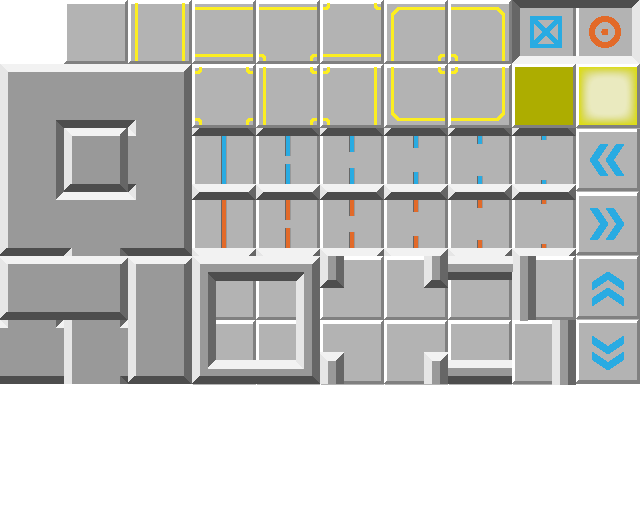
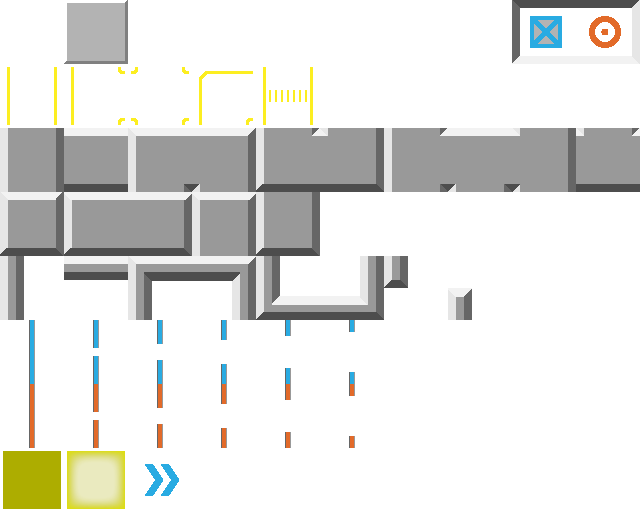
new tile-sprite-system with two sprites pr. tile, base (floor) and overlay (with rotation)
requires SpriteContainer that requires webgl-0.8.2.min.js
Wider door-design
fix level-design to accomodate wider doors

diff --git a/js/webgl-0.8.2.min.js b/js/webgl-0.8.2.min.js
@@ -1,0 +1,12 @@
+/*!
+* @license EaselJS
+* Visit http://createjs.com/ for documentation, updates and examples.
+*
+* Copyright (c) 2011-2015 gskinner.com, inc.
+*
+* Distributed under the terms of the MIT license.
+* http://www.opensource.org/licenses/mit-license.html
+*
+* This notice shall be included in all copies or substantial portions of the Software.
+*/
+this.createjs=this.createjs||{},function(){"use strict";function a(a){this.Container_constructor(),this.spriteSheet=a}var b=createjs.extend(a,createjs.Container);b.addChild=function(a){return null==a?a:arguments.length>1?this.addChildAt.apply(this,Array.prototype.slice.call(arguments).concat([this.children.length])):this.addChildAt(a,this.children.length)},b.addChildAt=function(a,b){var c=arguments.length,d=arguments[c-1];if(0>d||d>this.children.length)return arguments[c-2];if(c>2){for(var e=0;c-1>e;e++)this.addChildAt(arguments[e],d+e);return arguments[c-2]}if(!(a._spritestage_compatibility>=1))return console&&console.log("Error: You can only add children of type SpriteContainer, Sprite, BitmapText, or DOMElement ["+a.toString()+"]"),a;if(a._spritestage_compatibility<=4){var f=a.spriteSheet;if(!f||!f._images||f._images.length>1||this.spriteSheet&&this.spriteSheet!==f)return console&&console.log("Error: A child's spriteSheet must be equal to its parent spriteSheet and only use one image. ["+a.toString()+"]"),a;this.spriteSheet=f}return a.parent&&a.parent.removeChild(a),a.parent=this,this.children.splice(b,0,a),a},b.toString=function(){return"[SpriteContainer (name="+this.name+")]"},createjs.SpriteContainer=createjs.promote(a,"Container")}(),this.createjs=this.createjs||{},function(){"use strict";function a(a,b,c){this.Stage_constructor(a),this._preserveDrawingBuffer=b||!1,this._antialias=c||!1,this._viewportWidth=0,this._viewportHeight=0,this._projectionMatrix=null,this._webGLContext=null,this._webGLErrorDetected=!1,this._clearColor=null,this._maxTexturesPerDraw=1,this._maxBoxesPointsPerDraw=null,this._maxBoxesPerDraw=null,this._maxIndicesPerDraw=null,this._shaderProgram=null,this._vertices=null,this._verticesBuffer=null,this._indices=null,this._indicesBuffer=null,this._currentBoxIndex=-1,this._drawTexture=null,this._initializeWebGL()}[createjs.SpriteContainer,createjs.Sprite,createjs.BitmapText,createjs.Bitmap,createjs.DOMElement].forEach(function(a,b){a.prototype._spritestage_compatibility=b+1});var b=createjs.extend(a,createjs.Stage);a.NUM_VERTEX_PROPERTIES=5,a.POINTS_PER_BOX=4,a.NUM_VERTEX_PROPERTIES_PER_BOX=a.POINTS_PER_BOX*a.NUM_VERTEX_PROPERTIES,a.INDICES_PER_BOX=6,a.MAX_INDEX_SIZE=Math.pow(2,16),a.MAX_BOXES_POINTS_INCREMENT=a.MAX_INDEX_SIZE/4,b._get_isWebGL=function(){return!!this._webGLContext};try{Object.defineProperties(b,{isWebGL:{get:b._get_isWebGL}})}catch(c){}b.addChild=function(a){return null==a?a:arguments.length>1?this.addChildAt.apply(this,Array.prototype.slice.call(arguments).concat([this.children.length])):this.addChildAt(a,this.children.length)},b.addChildAt=function(a,b){var c=arguments.length,d=arguments[c-1];if(0>d||d>this.children.length)return arguments[c-2];if(c>2){for(var e=0;c-1>e;e++)this.addChildAt(arguments[e],d+e);return arguments[c-2]}return a._spritestage_compatibility>=1?!a.image&&!a.spriteSheet&&a._spritestage_compatibility<=4?(console&&console.log("Error: You can only add children that have an image or spriteSheet defined on them. ["+a.toString()+"]"),a):(a.parent&&a.parent.removeChild(a),a.parent=this,this.children.splice(b,0,a),a):(console&&console.log("Error: You can only add children of type SpriteContainer, Sprite, Bitmap, BitmapText, or DOMElement. ["+a.toString()+"]"),a)},b.update=function(a){if(this.canvas){this.tickOnUpdate&&this.tick(a),this.dispatchEvent("drawstart"),this.autoClear&&this.clear();var b=this._setWebGLContext();b?this.draw(b,!1):(b=this.canvas.getContext("2d"),b.save(),this.updateContext(b),this.draw(b,!1),b.restore()),this.dispatchEvent("drawend")}},b.clear=function(){if(this.canvas){var a=this._setWebGLContext();a?a.clear(a.COLOR_BUFFER_BIT):(a=this.canvas.getContext("2d"),a.setTransform(1,0,0,1,0,0),a.clearRect(0,0,this.canvas.width+1,this.canvas.height+1))}},b.draw=function(a,b){return"undefined"!=typeof WebGLRenderingContext&&(a===this._webGLContext||a instanceof WebGLRenderingContext)?(this._drawWebGLKids(this.children,a),!0):this.Stage_draw(a,b)},b.updateViewport=function(a,b){this._viewportWidth=a,this._viewportHeight=b,this._webGLContext&&(this._webGLContext.viewport(0,0,this._viewportWidth,this._viewportHeight),this._projectionMatrix||(this._projectionMatrix=new Float32Array([0,0,0,0,0,1,-1,1,1])),this._projectionMatrix[0]=2/a,this._projectionMatrix[4]=-2/b)},b.clearImageTexture=function(a){a.__easeljs_texture=null},b.toString=function(){return"[SpriteStage (name="+this.name+")]"},b._initializeWebGL=function(){this._clearColor={r:0,g:0,b:0,a:0},this._setWebGLContext()},b._setWebGLContext=function(){return this.canvas?this._webGLContext&&this._webGLContext.canvas===this.canvas||this._initializeWebGLContext():this._webGLContext=null,this._webGLContext},b._initializeWebGLContext=function(){var a={depth:!1,alpha:!0,preserveDrawingBuffer:this._preserveDrawingBuffer,antialias:this._antialias,premultipliedAlpha:!0},b=this._webGLContext=this.canvas.getContext("webgl",a)||this.canvas.getContext("experimental-webgl",a);if(b){if(this._maxTexturesPerDraw=1,this._setClearColor(this._clearColor.r,this._clearColor.g,this._clearColor.b,this._clearColor.a),b.enable(b.BLEND),b.blendFuncSeparate(b.SRC_ALPHA,b.ONE_MINUS_SRC_ALPHA,b.ONE,b.ONE_MINUS_SRC_ALPHA),b.pixelStorei(b.UNPACK_PREMULTIPLY_ALPHA_WEBGL,!1),this._createShaderProgram(b),this._webGLErrorDetected)return void(this._webGLContext=null);this._createBuffers(b),this.updateViewport(this._viewportWidth||this.canvas.width||0,this._viewportHeight||this.canvas.height||0)}},b._setClearColor=function(a,b,c,d){this._clearColor.r=a,this._clearColor.g=b,this._clearColor.b=c,this._clearColor.a=d,this._webGLContext&&this._webGLContext.clearColor(a,b,c,d)},b._createShaderProgram=function(a){var b=this._createShader(a,a.FRAGMENT_SHADER,"precision mediump float;uniform sampler2D uSampler0;varying vec3 vTextureCoord;void main(void) {vec4 color = texture2D(uSampler0, vTextureCoord.st);gl_FragColor = vec4(color.rgb, color.a * vTextureCoord.z);}"),c=this._createShader(a,a.VERTEX_SHADER,"attribute vec2 aVertexPosition;attribute vec3 aTextureCoord;uniform mat3 uPMatrix;varying vec3 vTextureCoord;void main(void) {vTextureCoord = aTextureCoord;gl_Position = vec4((uPMatrix * vec3(aVertexPosition, 1.0)).xy, 0.0, 1.0);}");if(!this._webGLErrorDetected&&b&&c){var d=a.createProgram();if(a.attachShader(d,b),a.attachShader(d,c),a.linkProgram(d),!a.getProgramParameter(d,a.LINK_STATUS))return void(this._webGLErrorDetected=!0);d.vertexPositionAttribute=a.getAttribLocation(d,"aVertexPosition"),d.textureCoordAttribute=a.getAttribLocation(d,"aTextureCoord"),d.sampler0uniform=a.getUniformLocation(d,"uSampler0"),a.enableVertexAttribArray(d.vertexPositionAttribute),a.enableVertexAttribArray(d.textureCoordAttribute),d.pMatrixUniform=a.getUniformLocation(d,"uPMatrix"),a.useProgram(d),this._shaderProgram=d}},b._createShader=function(a,b,c){var d=a.createShader(b);return a.shaderSource(d,c),a.compileShader(d),a.getShaderParameter(d,a.COMPILE_STATUS)?d:(this._webGLErrorDetected=!0,null)},b._createBuffers=function(b){this._verticesBuffer=b.createBuffer(),b.bindBuffer(b.ARRAY_BUFFER,this._verticesBuffer);var c=4*a.NUM_VERTEX_PROPERTIES;b.vertexAttribPointer(this._shaderProgram.vertexPositionAttribute,2,b.FLOAT,b.FALSE,c,0),b.vertexAttribPointer(this._shaderProgram.textureCoordAttribute,3,b.FLOAT,b.FALSE,c,8),this._indicesBuffer=b.createBuffer(),this._setMaxBoxesPoints(b,a.MAX_BOXES_POINTS_INCREMENT)},b._setMaxBoxesPoints=function(b,c){this._maxBoxesPointsPerDraw=c,this._maxBoxesPerDraw=this._maxBoxesPointsPerDraw/a.POINTS_PER_BOX|0,this._maxIndicesPerDraw=this._maxBoxesPerDraw*a.INDICES_PER_BOX,b.bindBuffer(b.ARRAY_BUFFER,this._verticesBuffer),this._vertices=new Float32Array(this._maxBoxesPerDraw*a.NUM_VERTEX_PROPERTIES_PER_BOX),b.bufferData(b.ARRAY_BUFFER,this._vertices,b.DYNAMIC_DRAW),this._indices=new Uint16Array(this._maxIndicesPerDraw);for(var d=0,e=this._indices.length;e>d;d+=a.INDICES_PER_BOX){var f=d*a.POINTS_PER_BOX/a.INDICES_PER_BOX;this._indices[d]=f,this._indices[d+1]=f+1,this._indices[d+2]=f+2,this._indices[d+3]=f,this._indices[d+4]=f+2,this._indices[d+5]=f+3}b.bindBuffer(b.ELEMENT_ARRAY_BUFFER,this._indicesBuffer),b.bufferData(b.ELEMENT_ARRAY_BUFFER,this._indices,b.STATIC_DRAW)},b._setupImageTexture=function(a,b){if(b&&(b.naturalWidth||b.getContext||b.readyState>=2)){var c=b.__easeljs_texture;return c||(c=b.__easeljs_texture=a.createTexture(),a.bindTexture(a.TEXTURE_2D,c),a.texImage2D(a.TEXTURE_2D,0,a.RGBA,a.RGBA,a.UNSIGNED_BYTE,b),a.texParameteri(a.TEXTURE_2D,a.TEXTURE_MIN_FILTER,a.NEAREST),a.texParameteri(a.TEXTURE_2D,a.TEXTURE_MAG_FILTER,a.LINEAR),a.texParameteri(a.TEXTURE_2D,a.TEXTURE_WRAP_S,a.CLAMP_TO_EDGE),a.texParameteri(a.TEXTURE_2D,a.TEXTURE_WRAP_T,a.CLAMP_TO_EDGE)),c}},b._drawWebGLKids=function(b,c,d){for(var e,f,g=this.snapToPixelEnabled,h=null,i=0,j=0,k=0,l=0,m=this._vertices,n=a.NUM_VERTEX_PROPERTIES_PER_BOX,o=a.MAX_INDEX_SIZE,p=this._maxBoxesPerDraw-1,q=0,r=b.length;r>q;q++)if(e=b[q],e.isVisible()){var h=e.image||e.spriteSheet&&e.spriteSheet._images[0],s=h.__easeljs_texture;if(s||(s=this._setupImageTexture(c,h))){f=e._props.matrix,f=(d?f.copy(d):f.identity()).appendTransform(e.x,e.y,e.scaleX,e.scaleY,e.rotation,e.skewX,e.skewY,e.regX,e.regY);var t=0,u=1,v=0,w=1;if(4===e._spritestage_compatibility)i=0,j=0,k=h.width,l=h.height;else if(2===e._spritestage_compatibility){var x=e.spriteSheet.getFrame(e.currentFrame),y=x.rect;i=-x.regX,j=-x.regY,k=i+y.width,l=j+y.height,t=y.x/h.width,v=y.y/h.height,u=t+y.width/h.width,w=v+y.height/h.height}else h=null,3===e._spritestage_compatibility&&e._updateText();if(!d&&e._spritestage_compatibility<=4&&s!==this._drawTexture&&(this._drawToGPU(c),this._drawTexture=s),null!==h){var z=++this._currentBoxIndex*n,A=f.a,B=f.b,C=f.c,D=f.d,E=f.tx,F=f.ty;g&&e.snapToPixel&&(E=E+(0>E?-.5:.5)|0,F=F+(0>F?-.5:.5)|0),m[z]=i*A+j*C+E,m[z+1]=i*B+j*D+F,m[z+5]=i*A+l*C+E,m[z+6]=i*B+l*D+F,m[z+10]=k*A+l*C+E,m[z+11]=k*B+l*D+F,m[z+15]=k*A+j*C+E,m[z+16]=k*B+j*D+F,m[z+2]=m[z+7]=t,m[z+12]=m[z+17]=u,m[z+3]=m[z+18]=v,m[z+8]=m[z+13]=w,m[z+4]=m[z+9]=m[z+14]=m[z+19]=e.alpha,this._currentBoxIndex===p&&(this._drawToGPU(c),this._drawTexture=s,this._maxBoxesPointsPerDraw<o&&(this._setMaxBoxesPoints(c,this._maxBoxesPointsPerDraw+a.MAX_BOXES_POINTS_INCREMENT),p=this._maxBoxesPerDraw-1))}e.children&&(this._drawWebGLKids(e.children,c,f),p=this._maxBoxesPerDraw-1)}}d||this._drawToGPU(c)},b._drawToGPU=function(b){if(this._drawTexture){var c=this._currentBoxIndex+1;b.activeTexture(b.TEXTURE0),b.bindTexture(b.TEXTURE_2D,this._drawTexture),b.uniform1i(this._shaderProgram.sampler0uniform,0),b.bindBuffer(b.ARRAY_BUFFER,this._verticesBuffer),b.bindBuffer(b.ELEMENT_ARRAY_BUFFER,this._indicesBuffer),b.uniformMatrix3fv(this._shaderProgram.pMatrixUniform,!1,this._projectionMatrix),b.bufferSubData(b.ARRAY_BUFFER,0,this._vertices),b.drawElements(b.TRIANGLES,c*a.INDICES_PER_BOX,b.UNSIGNED_SHORT,0),this._currentBoxIndex=-1,this._drawTexture=null}},createjs.SpriteStage=createjs.promote(a,"Stage")}();

diff --git a/js/tiles.js b/js/tiles.js
@@ -2,8 +2,8 @@ function createTile(type) {
     var tile = null;
 
     // NOTE: The numbers used here are LEVEL-design numbers.
-    //       They are not necessarily identical to the sprite-positions
-    //       eventhough most of them fit the same pattern.
+    //       They are not sprite-positions, and given the improved spritesheet,
+    //       they hardly ever match, so please don't expect them to
     switch(type) {
         case 10: tile = new Space();
                  break;
@@ -22,7 +22,7 @@ function createTile(type) {
         case 25:
         case 26:
         case 27:
-            tile = new Floor({12:"NS",13:"EW",14:"ESW",15:"NEW",16:"ES",17:"SW",
+            tile = new Road({12:"NS",13:"EW",14:"ESW",15:"NEW",16:"ES",17:"SW",
                               23:"NESW",24:"NES",25:"NSW",26:"NE",27:"NW"}[type]);
                  break;
         // active floor - with light
@@ -116,12 +116,47 @@ function createTile(type) {
     return tile;
 }
 
-class Tile extends createjs.Sprite {
-    constructor( spritename ) {
-        super(game.tiles, spritename);
-        this.type = spritename;
+class Tile extends createjs.SpriteContainer {
+    constructor(basic, overlay) {
+        super(game.tiles);
+
+        // create basic sprite
+        this.sprite = new createjs.Sprite(this.spriteSheet, basic);
+        this.addChild(this.sprite);
+        this.type = basic;
+
+        // create overlay if specified
+        if( overlay ) {
+            this.overlay = new createjs.Sprite(this.spriteSheet, overlay);
+            this.addChild(this.overlay);
+            this.type = overlay;
+        }
+
         this.walkable = true;
     }
+
+    // helper method for rotating overlay
+    rotate(direction) {
+        let rotation = direction;
+        switch(direction) {
+            case "left": rotation = 180;
+                break;
+            case "right": rotation = 0;
+                break;
+            case "up": rotation = -90;
+                break;
+            case "down": rotation = 90;
+                break;
+        }
+
+        this.overlay.regX = 32;
+        this.overlay.regY = 32;
+        this.overlay.x = 32;
+        this.overlay.y = 32;
+        this.overlay.rotation = rotation;
+
+    }
+
 
     canWalkOn(object,xoffset,yoffset) {
         return this.walkable;
@@ -134,6 +169,44 @@ class Tile extends createjs.Sprite {
     walkOff(object,xoffset, yoffset) {
         // called whenever an object leaves this tile
     }
+
+    // decorator-methods for sprite-handling
+    // handles the overlay by default (if it exists)
+    gotoAndPlay( frameOrAnimation ) {
+        if( this.overlay ) {
+            this.overlay.gotoAndPlay(frameOrAnimation);
+        } else {
+            this.sprite.gotoAndPlay(frameOrAnimation);
+        }
+    }
+
+    gotoAndStop( frameOrAnimation ) {
+        if( this.overlay ) {
+            this.overlay.gotoAndStop(frameOrAnimation);
+        } else {
+            this.sprite.gotoAndStop(frameOrAnimation);
+        }
+    }
+
+    addEventListener(type, listener, useCapture) {
+        super.addEventListener(type, listener, useCapture);
+        if(this.overlay) {
+            this.overlay.addEventListener(type,listener,useCapture);
+        } else {
+            this.sprite.addEventListener(type,listener,useCapture);
+        }
+    }
+
+    removeEventListener(type, listener, useCapture) {
+        super.removeEventListener(type, listener, useCapture);
+        if(this.overlay) {
+            this.overlay.removeEventListener(type,listener,useCapture);
+        } else {
+            this.sprite.removeEventListener(type,listener,useCapture);
+        }
+    }
+
+
 }
 
 class Space extends Tile {
@@ -144,19 +217,67 @@ class Space extends Tile {
 }
 
 class Floor extends Tile {
-    constructor(direction) {
+    constructor(type) {
         let spritename = "floor";
-        if(direction) {
-            spritename+="_"+direction;
+        if(type) {
+            spritename+="_"+type;
         }
         super(spritename);
         this.walkable = true;
     }
 }
 
+class Road extends Tile {
+    constructor(direction) {
+        let spritename = direction;
+        let rotation = 0;
+        switch (direction) {
+            case "NS":
+                break;
+            case "EW":
+                rotation = 90;
+                break;
+            case "ESW":
+                rotation = 90;
+                break;
+            case "NEW":
+                rotation = -90;
+                break;
+            case "NSW":
+                rotation = 180;
+                break;
+            case "NES":
+                rotation = 0;
+                break;
+            case "ES": rotation = 0;
+                break;
+            case "SW":
+                rotation = 90;
+                break;
+            case "NE":
+                rotation = -90;
+                break;
+            case "NW":
+                rotation = 180;
+                break;
+            case "NESW":
+                rotation = 0;
+                break;
+
+        }
+
+        spritename = "road_"+spritename;
+
+        // create basic floor and road-pattern
+        super("floor", spritename);
+        // rotate pattern in the desired direction
+        this.rotate(rotation);
+    }
+}
+
 class FloorLight extends Tile {
     constructor() {
-        super("floor_light_off");
+        super("floor", "floor_light_off");
         this.turnedOn = false;
 
         // keep track on all the objects on this tile
@@ -213,7 +334,7 @@ class Wall extends Tile {
 
 class Entry extends Tile {
     constructor() {
-        super("entry");
+        super("floor", "entry");
     }
 
     canWalkOn(object,xoffset,yoffset) {
@@ -229,7 +350,7 @@ class Entry extends Tile {
 
 class Exit extends Tile {
     constructor( type ) {
-        super("exit");
+        super("floor", "exit");
         this.triggered = false;
     }
 
@@ -254,7 +375,7 @@ class Exit extends Tile {
 
 class Door extends Tile {
     constructor( color, state="closed", type="keep" ) {
-        super( color + "door_" + state);
+        super("floor", color + "door_" + state);
 
         if( color == "blue" ) {
             this.locked = false;
@@ -269,10 +390,8 @@ class Door extends Tile {
 
     canWalkOn(object,xoffset,yoffset) {
         let canWalk = false;
-        if( yoffset-object.h/2>8 && yoffset+object.h/2<64-8 ) {
-            if( !this.closed || xoffset+object.w/2<28 || xoffset-object.w/2>34 ) {
-                canWalk = true;
-            }
+        if( !this.closed || xoffset+object.w/2<28 || xoffset-object.w/2>34 ) {
+            canWalk = true;
         }
         return canWalk;
     }
@@ -335,10 +454,9 @@ class Door extends Tile {
 /* ***** P24 series ***** */
 /* These tiles are mostly walkable, but have a 24 pixel wall somewhere on them */
 
-
 class P24TopLeftCorner extends Tile {
      constructor( type ) {
-         super("P24_ES");
+         super("floor", "P24_ES");
      }
 
     canWalkOn(object,xoffset,yoffset) {
@@ -348,7 +466,7 @@ class P24TopLeftCorner extends Tile {
 
 class P24BottomLeftCorner extends Tile {
     constructor( type ) {
-         super("P24_NE");
+         super("floor", "P24_NE");
      }
     canWalkOn(object,xoffset,yoffset) {
         return xoffset-object.w/2>24 && yoffset+object.h/2<64-24;
@@ -357,7 +475,7 @@ class P24BottomLeftCorner extends Tile {
 
 class P24TopRightCorner extends Tile {
     constructor( type ) {
-         super("P24_SW");
+         super("floor", "P24_SW");
      }
     canWalkOn(object,xoffset,yoffset) {
         return xoffset+object.w/2<40 && yoffset-object.h/2>24;
@@ -366,7 +484,7 @@ class P24TopRightCorner extends Tile {
 
 class P24BottomRightCorner extends Tile {
     constructor( type ) {
-         super("P24_NW");
+         super("floor", "P24_NW");
     }
 
     canWalkOn(object,xoffset,yoffset) {
@@ -374,10 +492,9 @@ class P24BottomRightCorner extends Tile {
     }
 }
 
-
 class P24TopLeft extends Tile {
     constructor() {
-         super("P24_W_N");
+         super("floor", "P24_W_N");
     }
 
     canWalkOn(object,xoffset,yoffset) {
@@ -387,8 +504,9 @@ class P24TopLeft extends Tile {
 
 class P24TopRight extends Tile {
     constructor() {
-         super("P24_E_N");
-     }
+         super("floor","P24_E_N");
+         this.overlay.x = 40;
+    }
     canWalkOn(object,xoffset,yoffset) {
         return xoffset+object.w/2<40 || yoffset-object.h/2>32;
     }
@@ -396,7 +514,7 @@ class P24TopRight extends Tile {
 
 class P24Top extends Tile {
     constructor() {
-         super("P24_N_EW");
+         super("floor", "P24_N_EW");
      }
     canWalkOn(object,xoffset,yoffset) {
         return yoffset-object.h/2>24;
@@ -406,19 +524,19 @@ class P24Top extends Tile {
 /* ***** Uni-directional types ***** */
 class FloorOnlyLeft extends Tile {
     constructor() {
-        super("floor_only_left");
+        super("floor", "floor_only_left");
+        this.rotate("left");
     }
 
     canWalkOn(object,xoffset,yoffset) {
-
         return xoffset <= object.x-this.x;
     }
 }
 
-
 class FloorOnlyRight extends Tile {
     constructor() {
-        super("floor_only_right");
+        super("floor", "floor_only_right");
+        this.rotate("right");
     }
 
     canWalkOn(object,xoffset,yoffset) {
@@ -428,7 +546,8 @@ class FloorOnlyRight extends Tile {
 
 class FloorOnlyUp extends Tile {
     constructor() {
-        super("floor_only_up");
+        super("floor","floor_only_up");
+        this.rotate("up");
     }
 
     canWalkOn(object,xoffset,yoffset) {
@@ -438,7 +557,8 @@ class FloorOnlyUp extends Tile {
 
 class FloorOnlyDown extends Tile {
     constructor() {
-        super("floor_only_down");
+        super("floor","floor_only_down");
+        this.rotate("down");
     }
 
     canWalkOn(object,xoffset,yoffset) {

diff --git a/index.html b/index.html
@@ -8,6 +8,7 @@
     <link href="https://fonts.googleapis.com/css?family=Slabo+27px" rel="stylesheet">
     <link rel="stylesheet" href="game.css" type="text/css">
     <script src="js/createjs-2015.11.26.min.js"></script>
+    <script src="js/webgl-0.8.2.min.js"></script>
     <script src="js/game.js"></script>
     <script src="js/sprites.js"></script>
     <script src="js/enemies.js"></script>
